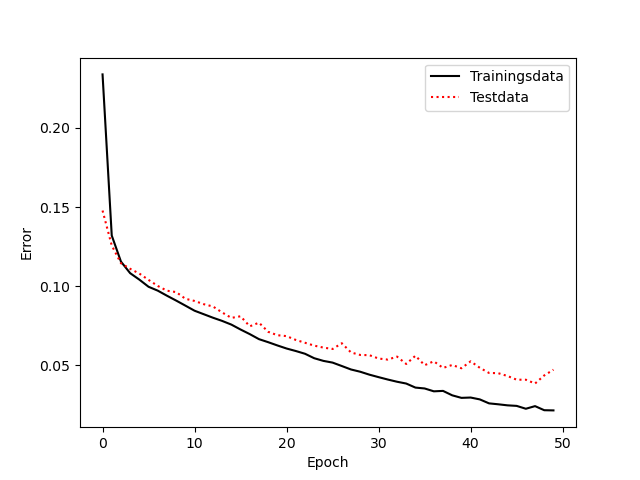
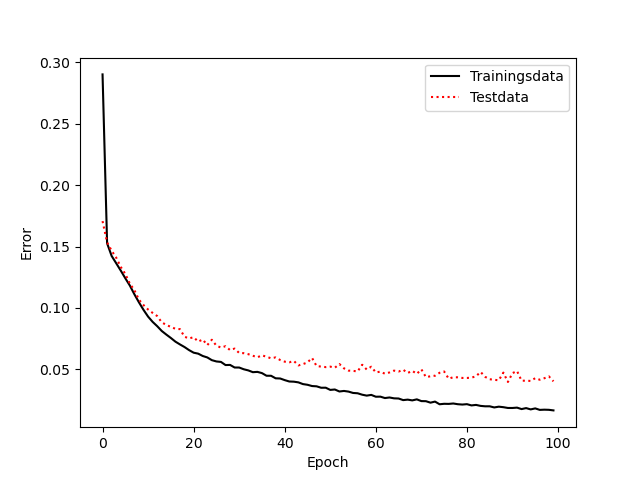
actual good attempt, needs more testing, will work on twitch integration next

diff --git a/train.py b/train.py
@@ -5,8 +5,8 @@ from streamer_shield_train import train
 
 if __name__ == "__main__":
     l= Logger(console_log=True)
-    layers = [64, 64, 32]
-    train("generated_data.csv", "auto_gen.h5", layers=layers, patience = 5, epochs = 10)
+    layers = [32, 16, 8]
+    train("generated_data.csv", "auto_gen.h5", layers=layers, patience = 20, epochs = 100)
     ss = StreamerShield("auto_gen.h5",25, 0.5,0.5)
     correctly_identified_users_bool,correctly_identified_users_conf,correctly_identified_scammers_bool, correctly_identified_scammers_conf = ss.test(False)
     user_perc = 0
